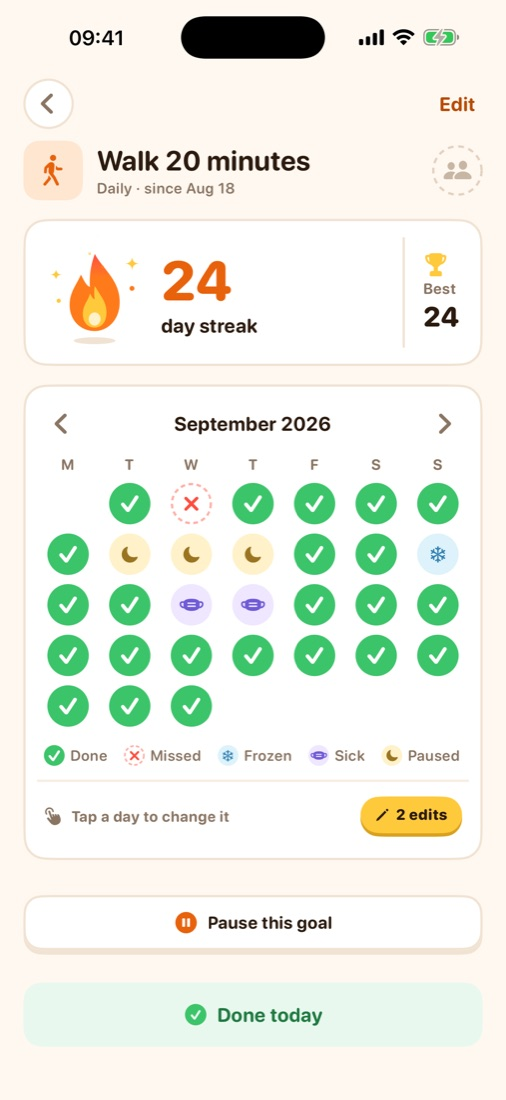
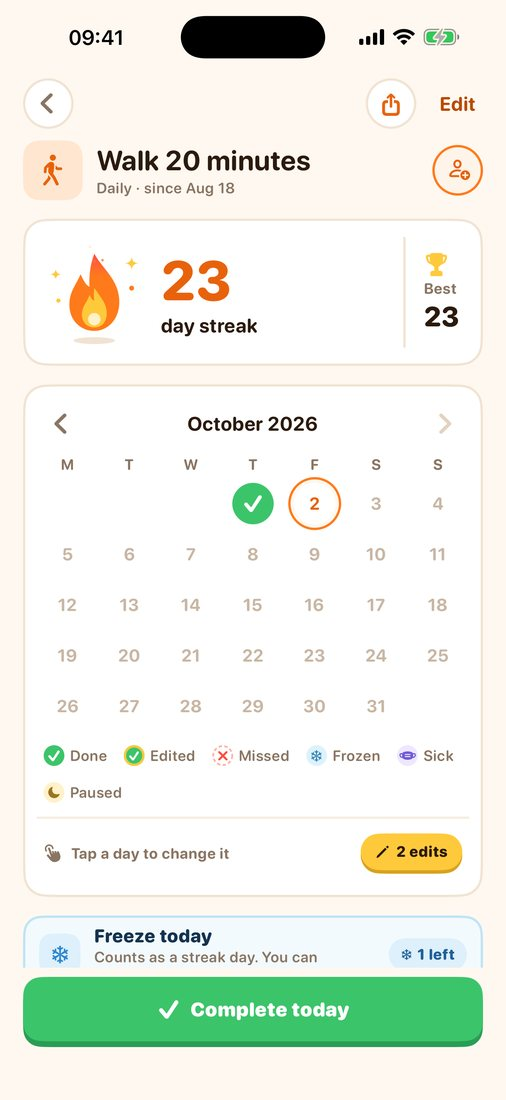
Streakie 1.3: Friends (challenges and together), freezes, share cards; new screenshots; privacy policy covers iCloud sharing

diff --git a/index.html b/index.html
@@ -12,7 +12,7 @@
 <link rel="icon" href="assets/streaky-icon.png" />
 <link rel="preconnect" href="https://fonts.googleapis.com" />
 <link rel="stylesheet" href="https://fonts.googleapis.com/css2?family=Nunito:wght@600;700;800;900&display=swap" />
-<link rel="stylesheet" href="landing.css?v=4" />
+<link rel="stylesheet" href="landing.css?v=5" />
 </head>
 <body>
 
@@ -36,9 +36,9 @@
   <!-- Hero -->
   <section class="hero wrap">
     <div class="hero-copy">
-      <span class="pill">🔥 One tap a day</span>
+      <span class="pill">✨ New: challenge a friend</span>
       <h1>Keep every habit <span class="accent">alive</span>, one flame at a time.</h1>
-      <p class="lead">Streakie gives every habit a little flame. Check in once a day, keep your streaks going, and watch your days turn into a journey along a river.</p>
+      <p class="lead">Streakie gives every habit a little flame. Check in once a day, keep your streaks going, and watch your days turn into a journey along a river. Now with friends: challenge someone to keep a goal longest, or do it together.</p>
       <div class="cta-row">
         <a class="store" href="https://apps.apple.com/app/id6815227488" aria-label="Download on the App Store">
           <span class="apple" aria-hidden="true"></span>
@@ -54,7 +54,7 @@
       <div class="phone tilt-r"><img src="assets/shots/quest.jpg" alt="The Quest map: every day is a stepping stone on a river" /></div>
       <div class="float f1"><span class="fl">🔥</span><b>24</b> day streak</div>
       <div class="float f2"><span class="dot ok">✓</span>Walk 20 minutes</div>
-      <div class="float f3">🎁 Chest in 6 days</div>
+      <div class="float f3">⚔ You 13 · Sara 12</div>
     </div>
   </section>
 
@@ -94,13 +94,29 @@
     <p class="eyebrow">Features</p>
     <h2>Your streak, as a journey.</h2>
     <div class="tabs" role="tablist">
-      <button role="tab" aria-selected="true" data-tab="quest">🗺 Quest</button>
-      <button role="tab" aria-selected="false" data-tab="rest">🌙 Rest days</button>
+      <button role="tab" aria-selected="true" data-tab="friends">👯 Friends</button>
+      <button role="tab" aria-selected="false" data-tab="quest">🗺 Quest</button>
+      <button role="tab" aria-selected="false" data-tab="rest">❄ Freezes</button>
+      <button role="tab" aria-selected="false" data-tab="share">📤 Share</button>
       <button role="tab" aria-selected="false" data-tab="calendar">📅 Calendar</button>
       <button role="tab" aria-selected="false" data-tab="private">🔒 Private</button>
     </div>
     <div class="panels">
-      <div class="panel" data-panel="quest" role="tabpanel">
+      <div class="panel" data-panel="friends" role="tabpanel">
+        <div class="phone tilt-r"><img src="assets/shots/friends.jpg" alt="A friend's flame on your Quest river" loading="lazy" /></div>
+        <div class="panel-copy">
+          <h3>Challenge a friend. Or do it together.</h3>
+          <p>Pick any goal, with any setting, and send a link. You both start at 0 on the day your friend joins, and their flame stands on your river so you always see who's ahead.</p>
+          <ul class="ticks">
+            <li><b>Challenge:</b> the longest streak wins, 7 or 30 days or no end</li>
+            <li><b>Together:</b> every check-in adds a plank to your weekly bridge</li>
+            <li>Send cheers: Keep it lit, Nice one, Proud of you</li>
+            <li>When it ends, keep going together or carry on alone. Your streak is never reset</li>
+          </ul>
+          <p class="muted">Syncs through iCloud. Still no Streakie account.</p>
+        </div>
+      </div>
+      <div class="panel" data-panel="quest" role="tabpanel" hidden>
         <div class="phone tilt-l"><img src="assets/shots/quest.jpg" alt="The Quest map" loading="lazy" /></div>
         <div class="panel-copy">
           <h3>Every day is a stepping stone</h3>
@@ -108,20 +124,32 @@
           <ul class="ticks">
             <li>Open a chest at 7 days</li>
             <li>Trophies at 30, 50, 75 and 100</li>
+            <li>Perfect days glow gold</li>
             <li>Zoom out to see how far you've come</li>
           </ul>
           <p class="muted">Prefer a simple list? Turn Quest off in Settings.</p>
         </div>
       </div>
       <div class="panel" data-panel="rest" role="tabpanel" hidden>
-        <div class="phone tilt-r"><img src="assets/shots/rest.jpg" alt="Freeze, sick and pause days on the map" loading="lazy" /></div>
+        <div class="phone tilt-r"><img src="assets/shots/freeze.jpg" alt="Freezing a goal for today" loading="lazy" /></div>
         <div class="panel-copy">
           <h3>Life happens. Streaks survive.</h3>
-          <p>Vacation, a sick day or just a break? Pause a goal and your streak waits for you.</p>
+          <p>Freeze a goal for today and it still counts as a streak day. Vacation, a sick day or a break? Pause it and your streak waits for you.</p>
           <ul class="ticks">
-            <li>Mark a sick day and rest up</li>
-            <li>Earn freezes that save a missed day</li>
-            <li>Pauses end by themselves</li>
+            <li>Earn a freeze at every level, freeze today or let it save a missed day</li>
+            <li>Changed your mind? Undo it</li>
+            <li>Mark a sick day and rest up; pauses end by themselves</li>
+          </ul>
+        </div>
+      </div>
+      <div class="panel" data-panel="share" role="tabpanel" hidden>
+        <div class="phone tilt-l"><img src="assets/shots/share.jpg" alt="Share Studio with Story-sized cards" loading="lazy" /></div>
+        <div class="panel-copy">
+          <h3>Share your streak</h3>
+          <p>Story-sized cards for your journey or a goal: your streak, your days since you started, or how close the next trophy is.</p>
+          <ul class="ticks">
+            <li>Swipe between four card styles</li>
+            <li>Add your own caption</li>
           </ul>
         </div>
       </div>
@@ -140,7 +168,7 @@
         <div class="phone tilt-r"><img src="assets/shots/night.jpg" alt="The Quest map at night" loading="lazy" /></div>
         <div class="panel-copy">
           <h3>Your habits stay on your phone</h3>
-          <p>No account, no ads, no tracking. Everything you enter is stored on your iPhone. Only anonymous usage statistics are sent, and you can switch them off.</p>
+          <p>No account, no ads, no tracking. Everything you enter is stored on your iPhone. Goals you share with friends sync through your own iCloud, and friends only see that goal, your first name and your check-ins. Only anonymous usage statistics are sent, and you can switch them off.</p>
           <a class="link" href="privacy.html">Read the privacy policy →</a>
         </div>
       </div>
@@ -195,6 +223,9 @@
     <details><summary>How do I check in from the Home Screen?</summary><p>Long-press your Home Screen, tap <b>Edit → Add Widget</b>, search for <b>Streakie</b> and add the small or medium widget. Tap a circle in the widget to check in.</p></details>
     <details><summary>How do reminders work?</summary><p>Streakie sends one evening check-in that lists everything still open, with a <b>Mark all done</b> button in the notification. Goals you only know the next day, like bedtime, get a morning check-in instead. Change the times in <b>Settings → Notifications</b>.</p></details>
     <details><summary>I forgot to check in yesterday.</summary><p>Open Streakie and use the <b>Log yesterday?</b> card at the top. For older days, open the goal, tap the day in its calendar and spend an edit.</p></details>
+    <details><summary>How do challenges work?</summary><p>Open a goal and tap the friends button, or tap <b>Start a challenge</b> on My goals. Choose <b>Challenge</b> (longest streak wins) or <b>Together</b> (count it as a team), then send the link. Day 1 is the day your friend joins, and you both start at 0. Your friend gets the same goal with the same setting.</p></details>
+    <details><summary>Does my friend need an account?</summary><p>No Streakie account, but both of you need Streakie on an iPhone signed in to iCloud. Shared goals sync through iCloud, and friends only see that goal, your first name and your check-ins.</p></details>
+    <details><summary>What happens when a challenge ends?</summary><p>You see who won, then choose: keep going together with no end date, place the medal on your journey, or start a rematch. Whatever you pick, your goal and its streak carry on.</p></details>
     <details><summary>What is Quest?</summary><p>A second view that shows your streak as a path of days along a river. Milestones give you edits and streak freezes. You can turn it off in <b>Settings → Quest</b>.</p></details>
     <details><summary>How does pausing work?</summary><p>Long-press a goal, or open it and tap <b>Pause this goal</b>. Choose vacation, sick or a break and how long it lasts; the pause ends by itself. Paused days never break a streak.</p></details>
     <details><summary>Will I lose my streaks if I delete the app?</summary><p>Yes. Your data lives only on your device, so deleting the app deletes your habits too.</p></details>

diff --git a/privacy.html b/privacy.html
@@ -16,7 +16,7 @@
 
   <div class="doc">
     <h1>Privacy Policy</h1>
-    <div class="updated">Last updated: 25 September 2026 · Version 1.1</div>
+    <div class="updated">Last updated: 29 September 2026 · Version 1.3</div>
 
     <p>This policy explains how <b>Streakie</b> ("the app"), published by The Product People, handles information when you use it to track your habits.</p>
 
@@ -45,6 +45,9 @@
 
     <h2>4. Sharing</h2>
     <p>When you tap <b>Share</b>, Streakie creates an image of your streak and opens the iOS share sheet. Nothing is shared unless you choose where to send it, and what happens afterwards is governed by the app you share to.</p>
+
+    <h2>4b. Doing a goal with friends</h2>
+    <p>If you challenge a friend or do a goal together, Streakie shares that one goal through <b>Apple iCloud (CloudKit sharing)</b> in your own iCloud account. The shared goal, the first name you enter and your daily check-ins for that goal are visible to the friends you invite, and theirs to you. Your other goals and data are never shared. We run no server for this and cannot read the shared data; Apple stores it under its own privacy terms. Leaving or ending a shared goal stops sharing; your history in it stays visible to the others as part of that shared goal.</p>
 
     <h2>5. Children</h2>
     <p>Streakie does not collect personal data from anyone, including children.</p>
